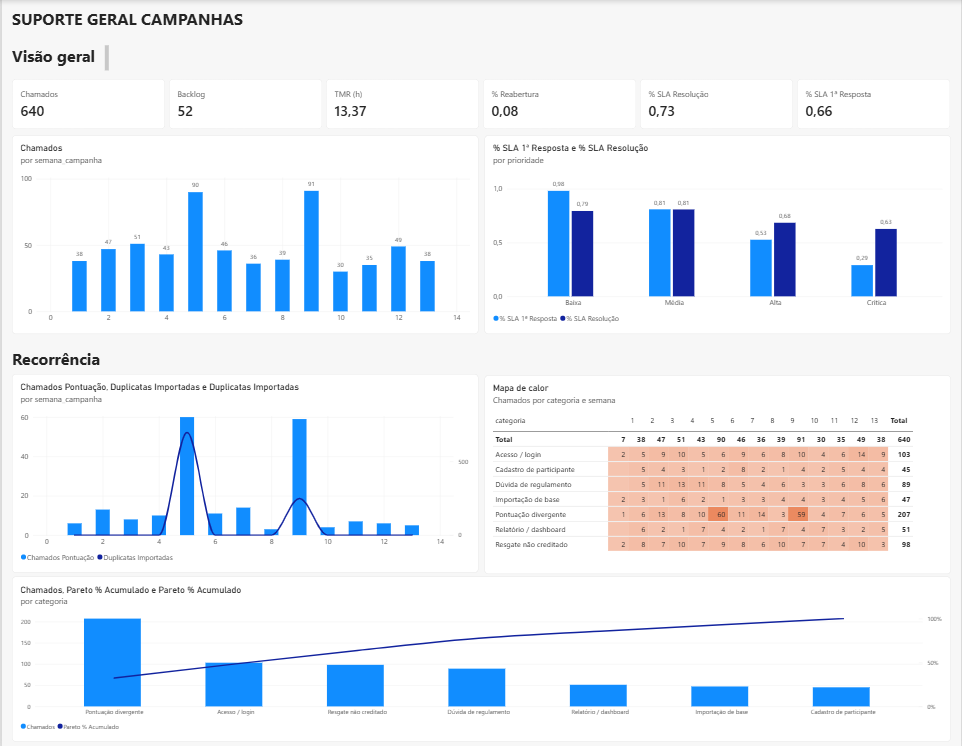
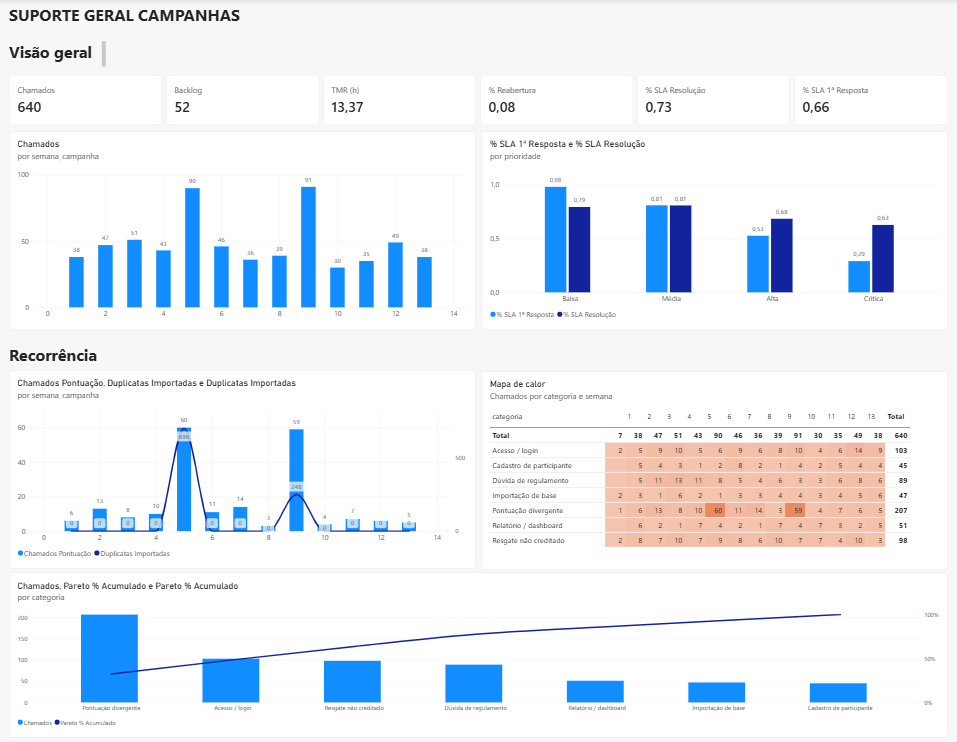
README enxuto: apresenta apenas as métricas do painel (Visão geral e Recorrência)
Claude-Session: https://claude.ai/code/session_01VT4cCj2nRARfKBaPG8xNPA

diff --git a/README.md b/README.md
@@ -2,145 +2,67 @@
 
 > 🎓 Case desenvolvido para a **Pós-graduação em Análise de Dados** da **Anhanguera Educacional** (2026).
 
-> **Pergunta do case:** uma campanha de vendas com metas e premiação fechou o trimestre. Antes de pagar os pontos, dá para confiar na apuração? E por que a fila de suporte estourou o SLA justamente em "pontuação divergente"?
+> **Pergunta do case:** a fila de suporte de uma campanha de vendas fechou o trimestre com SLA abaixo do esperado. Como está a operação? E por que os chamados de "pontuação divergente" dispararam em semanas específicas?
 
-Este repositório simula, de ponta a ponta, o trabalho de um(a) **Analista de Suporte e Dados** em uma plataforma SaaS que apura campanhas de metas para empresas clientes: receber a base do cliente, validar, apurar, conferir, atender os chamados que surgem, medir SLA, achar a causa raiz da recorrência e propor melhoria de processo e de sistema.
+Este repositório simula o trabalho de um(a) **Analista de Dados** em uma plataforma SaaS que apura campanhas de metas para empresas clientes: medir a fila de suporte, encontrar a causa raiz da recorrência e propor melhoria.
 
-Todos os dados são **fictícios** e gerados por script (seed fixa) — inclusive os erros, que foram inseridos de propósito e com quantidade conhecida, para que cada regra de qualidade possa ser conferida contra um gabarito.
+Todos os dados são **fictícios** e gerados por script python (seed fixa), inclusive os erros, que foram inseridos de propósito e com quantidade conhecida.
 
 ---
 
-## Resultado em 30 segundos
-
-| | |
-|---|---|
-| **Vendas recebidas** | 9.999 linhas, 13 lotes de importação |
-| **Vendas aptas à apuração** | 8.892 (1.107 bloqueadas por 4 regras) |
-| **Principal problema** | 944 vendas duplicadas por reimportação de lote (R$ 144,9 mil de faturamento inflado) |
-| **Impacto evitado** | sem a conferência, **89 participantes** receberiam pontos a mais — **+129 mil pontos (+33%)** sobre os 388 mil corretos; 11 pessoas que não bateram meta pontuariam |
-| **Resgates bloqueados** | 28 acima do saldo apurado (9 pedidos anômalos de 25 mil pts + 19 resgates liberados pela prévia inflada) |
-| **Fila de suporte** | 640 chamados · 73,3% resolvidos no SLA · "Pontuação divergente" = 32% do volume e só 56,6% no SLA |
-| **Causa raiz** | os chamados de pontuação saltam de ~8/semana para ~60 exatamente nas semanas 5 e 9 — as semanas das reimportações |
-| **Conferência Excel × SQL** | apuração recalculada com fórmulas no Excel, independente do SQL: **180/180 participantes batem, 0 divergências** |
-
-![Chamados de pontuação por semana](reports/img/recorrencia_pontuacao.png)
-
 ## Painel Power BI
 
-![Painel Power BI: visão geral da fila e causa raiz](reports/img/painel_powerbi.png)
-
-Modelo estrela com 9 tabelas (fatos e dimensões) e 15 medidas DAX. A seção **Recorrência** cruza chamados de pontuação com vendas duplicadas por semana e mostra os picos coincidindo nas semanas 5 e 9.
+![Painel Power BI: visão geral da fila e recorrência](reports/img/painel_powerbi.png)
 
 - Arquivo do painel: [`powerbi/painel_suporte_dados.pbix`](powerbi/painel_suporte_dados.pbix) (abra no Power BI Desktop, gratuito)
 - Versão em PDF: [`powerbi/painel_suporte_dados.pdf`](powerbi/painel_suporte_dados.pdf)
 - Como foi montado: [guia passo a passo](docs/guia_powerbi.md)
 
+## Resultado em 30 segundos
 
----
-
-## Competências demonstradas
-
-| Competência | Onde está a evidência |
+| | |
 |---|---|
-| Suporte a sistemas e plataformas | [Playbook de triagem](docs/playbook_triagem.md) e [base de conhecimento](docs/Base_de_Conhecimento/) com diagnóstico passo a passo |
-| Análise e tratamento de dados (Excel / SQL) | [`sql/02_qualidade_dados.sql`](sql/02_qualidade_dados.sql) · [`reports/apuracao_campanha.xlsx`](reports/apuracao_campanha.xlsx) |
-| Relatórios e dashboards (Power BI) | [`reports/indicadores_suporte.xlsx`](reports/indicadores_suporte.xlsx) · [modelo Power BI com medidas DAX](docs/powerbi_modelo.md) · [guia para montar e publicar o painel](docs/guia_powerbi.md) |
-| Gestão de chamados com SLA | [`sql/05_chamados_sla.sql`](sql/05_chamados_sla.sql) · [matriz de SLA](docs/matriz_sla.md) |
-| Extração, cruzamento e validação de dados | 7 regras de qualidade + cruzamento vendas × metas × resgates × chamados |
-| Apoio às áreas de negócio na conferência de resultados | Aba **Apuração** com fórmulas vivas conferindo o SQL linha a linha |
-| Documentar e alimentar base de conhecimento | [`docs/Base_de_Conhecimento/`](docs/Base_de_Conhecimento/) — 3 artigos no formato sintoma → causa → solução |
-| Identificar recorrência e propor melhoria | [Análise de causa raiz e proposta](docs/proposta_melhoria.md) |
-| Comunicação clara | [Comunicado ao cliente](docs/comunicado_cliente.md) explicando a divergência sem jargão |
+| **Fila de suporte** | 640 chamados no trimestre (jul–set/2026), 52 ainda em aberto |
+| **SLA** | 66,4% de 1ª resposta e 73,3% de resolução dentro do prazo |
+| **Ponto de atenção** | chamados **Críticos** têm só 29% de 1ª resposta no prazo, o pior de todas as prioridades |
+| **Maior categoria** | "Pontuação divergente": 207 chamados, 1/3 da fila |
+| **Causa raiz** | os chamados de pontuação saltam para ~60 nas **semanas 5 e 9**, as mesmas em que 696 e 248 vendas foram importadas em duplicidade |
 
 ---
 
-## O cenário
+## 1 · Visão geral
 
-A **Distribuidora Horizonte** (fictícia) roda a campanha **Desafio Trimestral Q3/2026** (01/07 a 30/09) para 180 vendedores e supervisores.
-
-**Regras da campanha**
-
-| Regra | Como funciona |
-|---|---|
-| Faturamento | atingimento = faturamento válido ÷ meta → <80%: 0 pts · 80–99%: 1.000 · 100–119%: 2.500 · ≥120%: 4.000 |
-| Positivação | clientes distintos atendidos ≥ meta de positivação → +1.500 pts |
-| Elegibilidade | participante ativo e com meta cadastrada |
-
-As regras ficam em **tabelas de parâmetro** ([`sql/01_parametros.sql`](sql/01_parametros.sql)), não chumbadas na query — a área de Campanhas muda uma faixa sem precisar mexer na apuração.
-
----
-
-## 1 · Qualidade dos dados antes de apurar
-
-Cada regra grava a ocorrência com o registro e o motivo, o que vira evidência para o chamado e para o cliente.
-
-| Regra | Severidade | Ocorrências | O que significa |
-|---|---|---:|---|
-| DQ01 Venda duplicada | Bloqueia | 944 | mesma venda importada duas vezes (lotes 05 e 09) |
-| DQ02 Matrícula não cadastrada | Bloqueia | 55 | venda de quem não está na campanha |
-| DQ03 Venda fora do período | Bloqueia | 70 | junho ou outubro |
-| DQ04 Valor inválido | Bloqueia | 38 | zero ou negativo — estorno lançado como venda |
-| DQ05 Participante sem meta | Bloqueia | 6 | não dá para apurar: pendência com o cliente |
-| DQ06 Matrícula fora do padrão | Alerta | 12 | espaço ou minúscula no cadastro — normalizado e segue |
-| DQ07 Resgate acima do saldo | Bloqueia | 28 | prêmio pedido sem lastro de pontos |
-
-Todas as contagens batem com o gabarito de inserção ([`tests/test_pipeline.py`](tests/test_pipeline.py)).
-
-![Ocorrências de qualidade](reports/img/qualidade_dados.png)
-
-A duplicidade é detectada por janela (`ROW_NUMBER` sobre o conteúdo da venda), mantendo a primeira ocorrência e apontando de qual registro cada duplicata é cópia:
-
-```sql
-SELECT 'DQ01 Venda duplicada', 'Bloqueia', 'vendas', id_venda, matricula,
-       'Duplicata de ' || id_original || ' no ' || lote_importacao
-FROM (
-    SELECT v.*, ROW_NUMBER() OVER w AS rn, FIRST_VALUE(id_venda) OVER w AS id_original
-    FROM stg_vendas v
-    WINDOW w AS (PARTITION BY matricula, data_venda, cod_cliente, cod_produto,
-                              quantidade, valor_total ORDER BY id_venda)
-)
-WHERE rn > 1;
-```
-
-## 2 · Apuração e conferência
-
-- **SQL** ([`sql/03_apuracao.sql`](sql/03_apuracao.sql)) apura a partir das vendas válidas e, em paralelo, roda a mesma regra **sem** tratamento para medir o impacto.
-- **Excel** ([`reports/apuracao_campanha.xlsx`](reports/apuracao_campanha.xlsx)) refaz o cálculo com fórmulas (`INDEX/MATCH` na tabela de faixas, `IF` no bônus) e compara com o SQL na coluna **Conferência**. Mudou uma faixa na aba Parâmetros, tudo recalcula.
-
-| Faixa | Participantes | Pontos |
-|---|---:|---:|
-| F0 · abaixo de 80% | 21 | 15.000 |
-| F1 · 80% a 99% | 76 | 127.000 |
-| F2 · 100% a 119% | 61 | 190.000 |
-| F3 · 120% ou mais | 11 | 56.000 |
-| **Total (169 elegíveis)** | | **388.000** |
-
-*F0 tem pontos porque o bônus de positivação independe da faixa de faturamento.*
-
-## 3 · Fila de suporte e SLA
-
-640 chamados entre julho e setembro ([`sql/05_chamados_sla.sql`](sql/05_chamados_sla.sql)).
+Como a fila de suporte se comportou no trimestre.
 
 | Indicador | Valor |
 |---|---:|
-| SLA de 1ª resposta | 66,4% |
-| SLA de resolução | 73,3% |
-| Tempo médio de resolução | 13,4 h |
-| Reabertura | 7,8% |
-| Backlog no fim do período | 52 |
+| Chamados | 640 |
+| Backlog (em aberto) | 52 |
+| Tempo médio de resolução (TMR) | 13,4 h |
+| % Reabertura | 7,8% |
+| % SLA de resolução | 73,3% |
+| % SLA de 1ª resposta | 66,4% |
 
-![SLA por categoria](reports/img/sla_categoria.png)
+**Chamados por semana:** a fila fica entre 30 e 51 chamados por semana, com dois picos fora da curva: **90 na semana 5** e **91 na semana 9**.
 
-Dois achados que não aparecem olhando só a média:
+**SLA por prioridade:**
 
-1. **"Pontuação divergente" é 1/3 da fila e a pior em SLA (56,6%) e reabertura (17,4%).** É o chamado que exige cruzar dados para responder — e a resposta "está certo" não convence quando o número no app mudou.
-2. **Prioridade Crítica tem só 29% de 1ª resposta no prazo (30 min).** O problema não é resolver — a resolução fica em 62,7% — é *perceber* que o chamado crítico chegou. Isso pede alerta, não mais gente.
+| Prioridade | % SLA 1ª resposta | % SLA resolução |
+|---|---:|---:|
+| Baixa | 98% | 79% |
+| Média | 81% | 81% |
+| Alta | 53% | 68% |
+| Crítica | **29%** | 63% |
 
-## 4 · Causa raiz e proposta
+O SLA de 1ª resposta **piora conforme a prioridade sobe**, o inverso do desejado: os chamados críticos entram na mesma fila dos demais e demoram a ser percebidos.
 
-O Pareto mostra 3 categorias somando 64% do volume, mas o cruzamento com os lotes de importação mostra que a maior delas tem **uma causa só**:
+## 2 · Recorrência
 
-| Semana | Duplicatas importadas | Chamados de pontuação |
+De onde vêm os picos das semanas 5 e 9.
+
+**Chamados de pontuação × vendas duplicadas por semana.** Os chamados de "Pontuação divergente" ficam entre 3 e 14 por semana, mas sobem para **60 na semana 5** e **59 na semana 9**. São exatamente as semanas em que lotes de vendas foram importados duas vezes:
+
+| Semana | Vendas duplicadas importadas | Chamados de pontuação |
 |---:|---:|---:|
 | 4 | 0 | 10 |
 | **5** | **696** | **60** |
@@ -149,72 +71,90 @@ O Pareto mostra 3 categorias somando 64% do volume, mas o cruzamento com os lote
 | **9** | **248** | **59** |
 | 10 | 0 | 4 |
 
-Proposta completa, com 5 porquês, ações de processo e de sistema e estimativa de ganho: **[docs/proposta_melhoria.md](docs/proposta_melhoria.md)**. Em resumo:
+**Mapa de calor (categoria × semana):** confirma que o pico é de **uma categoria só**. As demais categorias ficam estáveis o trimestre todo; só "Pontuação divergente" dispara nas semanas 5 e 9.
 
-- **Sistema:** chave de idempotência por venda + checagem de hash do lote → reimportação não duplica.
-- **Processo:** checklist de pré-apuração com as 7 regras; resgate da prévia limitado a um percentual do saldo até a apuração final.
-- **Suporte:** artigo de base de conhecimento + macro de resposta para "pontuação divergente" e alerta para chamados Críticos.
+**Pareto de categorias:**
+
+| Categoria | Chamados | % acumulado |
+|---|---:|---:|
+| Pontuação divergente | 207 | 32,3% |
+| Acesso / login | 103 | 48,4% |
+| Resgate não creditado | 98 | 63,8% |
+| Dúvida de regulamento | 89 | 77,7% |
+| Relatório / dashboard | 51 | 85,6% |
+| Importação de base | 47 | 93,0% |
+| Cadastro de participante | 45 | 100,0% |
+
+"Pontuação divergente" sozinha é **1/3 da fila**, e 4 das 7 categorias somam cerca de 78% do volume.
+
+## 3 · Conclusão e recomendações
+
+A maior categoria da fila tem **uma causa só**: a reimportação de lotes de vendas. A pontuação do participante sobe com as vendas duplicadas, depois cai na correção, e ele abre chamado.
+
+- **Sistema:** impedir que o mesmo lote seja importado duas vezes (chave única por venda e conferência do arquivo).
+- **Processo:** conferir a base antes de publicar a prévia de pontos.
+- **Suporte:** resposta padrão com o extrato do participante para "pontuação divergente" e alerta imediato para chamados Críticos.
+
+Análise completa, com 5 porquês e plano de ação: [docs/proposta_melhoria.md](docs/proposta_melhoria.md).
 
 ---
 
-## Como rodar
+## Como foi construído
 
-```bash
-git clone https://github.com/<seu-usuario>/case-suporte-e-dados.git
-cd case-suporte-e-dados
-pip install -r requirements.txt
+1. **Dados:** base fictícia de vendas e chamados gerada por script python ([`data/generate_data.py`](data/generate_data.py)).
+2. **SQL:** identificação das vendas duplicadas e cálculo dos indicadores da fila ([`sql/`](sql/)). A duplicidade é encontrada com uma função de janela:
 
-python data/generate_data.py     # recria a base fictícia (determinística)
-python src/pipeline.py           # carrega, valida, apura, mede SLA e gera reports/ e powerbi/dados/
-python -m pytest tests -q        # confere as regras contra o gabarito
+```sql
+SELECT id_venda, matricula, lote_importacao
+FROM (
+    SELECT v.*, ROW_NUMBER() OVER w AS rn
+    FROM stg_vendas v
+    WINDOW w AS (PARTITION BY matricula, data_venda, cod_cliente, cod_produto,
+                              quantidade, valor_total ORDER BY id_venda)
+)
+WHERE rn > 1;   -- 944 vendas duplicadas
 ```
 
-Usa SQLite (vem com o Python), então não precisa instalar banco. Para abrir no **DBeaver** ou no **HeidiSQL** sem Python, use o banco pronto [`banco/case_suporte.db`](banco/case_suporte.db) e rode os scripts de `sql/` na ordem. Passo a passo e adaptação para MySQL, SQL Server e PostgreSQL em [docs/adaptacao_sql.md](docs/adaptacao_sql.md).
+3. **Power BI:** modelo estrela (tabelas de fatos e dimensões ligadas pelo calendário, prioridade e participante) e medidas DAX para os indicadores do painel: Chamados, Backlog, TMR, % Reabertura, % SLA de resolução, % SLA de 1ª resposta, Chamados de pontuação, Vendas duplicadas e Pareto acumulado. Detalhes em [docs/powerbi_modelo.md](docs/powerbi_modelo.md).
+
+## Como abrir
+
+- **Só ver o painel:** abra o [PDF](powerbi/painel_suporte_dados.pdf) ou o [`.pbix`](powerbi/painel_suporte_dados.pbix) no Power BI Desktop.
+- **Explorar os dados no DBeaver ou no HeidiSQL:** abra o banco pronto [`banco/case_suporte.db`](banco/case_suporte.db) e rode os scripts de `sql/` na ordem. Passo a passo em [docs/adaptacao_sql.md](docs/adaptacao_sql.md), com adaptação para MySQL, SQL Server e PostgreSQL.
+- **Recriar tudo com Python:**
+
+```bash
+pip install -r requirements.txt
+python data/generate_data.py     # recria a base fictícia (sempre igual)
+python src/pipeline.py           # calcula os indicadores e gera powerbi/dados/
+```
 
 ## Estrutura
 
 ```
-├── banco/case_suporte.db       # banco SQLite pronto para DBeaver / HeidiSQL
-├── data/
-│   ├── generate_data.py        # base fictícia + gabarito das inconsistências
-│   └── raw/                    # CSVs: campanha, participantes, metas, produtos, vendas, resgates, chamados
-├── sql/
-│   ├── 01_parametros.sql       # faixas, bônus, matriz de SLA
-│   ├── 02_qualidade_dados.sql  # regras DQ01–DQ06 e vendas válidas
-│   ├── 03_apuracao.sql         # apuração + apuração sem tratamento (impacto)
-│   ├── 04_resgates.sql         # saldo × resgates (DQ07)
-│   ├── 05_chamados_sla.sql     # SLA, backlog, reabertura
-│   └── 06_recorrencia.sql      # duplicatas × chamados, Pareto
-├── src/
-│   ├── criar_banco.py          # cria banco/case_suporte.db a partir dos CSVs
-│   ├── pipeline.py             # orquestra tudo e gera os relatórios
-│   └── export_powerbi.py       # exporta as tabelas do modelo Power BI
 ├── powerbi/
-│   ├── painel_suporte_dados.pbix # painel Power BI
-│   ├── painel_suporte_dados.pdf  # painel exportado em PDF
-│   └── dados/                    # CSVs prontos para importar no Power BI (fatos e dimensões)
-├── reports/
-│   ├── apuracao_campanha.xlsx  # parâmetros, apuração com fórmulas, qualidade, impacto, resgates
-│   ├── indicadores_suporte.xlsx# visão geral, categoria, prioridade, analista, Pareto, recorrência
-│   ├── resumo.json             # números do README, gerados pelo pipeline
-│   └── img/                    # gráficos
-├── docs/
-│   ├── playbook_triagem.md     # como receber, classificar e diagnosticar um chamado
-│   ├── matriz_sla.md           # prioridades, prazos, escalonamento
-│   ├── Base_de_Conhecimento/   # artigos BC-001 a BC-003
-│   ├── powerbi_modelo.md       # modelo estrela, medidas DAX e layout do painel
-│   ├── guia_powerbi.md         # passo a passo para montar o painel e publicar na web
-│   ├── proposta_melhoria.md    # causa raiz e plano de ação
-│   ├── comunicado_cliente.md   # retorno ao cliente sobre a divergência
-│   └── adaptacao_sql.md
-└── tests/test_pipeline.py
+│   ├── painel_suporte_dados.pbix   # painel Power BI
+│   ├── painel_suporte_dados.pdf    # painel em PDF
+│   └── dados/                      # tabelas do modelo (CSV, padrão pt-BR)
+├── banco/case_suporte.db           # banco SQLite para DBeaver / HeidiSQL
+├── sql/                            # scripts SQL (duplicidade, SLA, recorrência)
+├── data/                           # gerador e base fictícia (CSV)
+├── src/                            # pipeline em Python
+├── reports/img/                    # imagens do README
+└── docs/
+    ├── proposta_melhoria.md        # causa raiz e plano de ação
+    ├── powerbi_modelo.md           # modelo e medidas DAX
+    ├── guia_powerbi.md             # passo a passo do painel
+    ├── adaptacao_sql.md            # DBeaver, HeidiSQL, MySQL, SQL Server, PostgreSQL
+    ├── playbook_triagem.md         # material de apoio: triagem de chamados
+    ├── matriz_sla.md               # material de apoio: prazos de SLA
+    └── Base_de_Conhecimento/       # material de apoio: artigos BC-001 a BC-003
 ```
 
-## Limitações assumidas
+## Limitações
 
-- SLA medido em **horas corridas**; em produção normalmente é em horas úteis (ver [matriz de SLA](docs/matriz_sla.md)).
-- O painel Power BI é montado a partir de `powerbi/dados/` seguindo o [guia](docs/guia_powerbi.md); a planilha de indicadores permite verificar os números sem licença do Power BI.
-- Os dados e a empresa são fictícios; a correlação semanal foi construída para o cenário e serve para demonstrar o método de investigação.
+- SLA medido em **horas corridas**; em produção normalmente é em horas úteis.
+- Os dados e a empresa são fictícios; a relação entre duplicidade e chamados foi construída para o cenário e serve para demonstrar o método de investigação.
 
 ---
 
